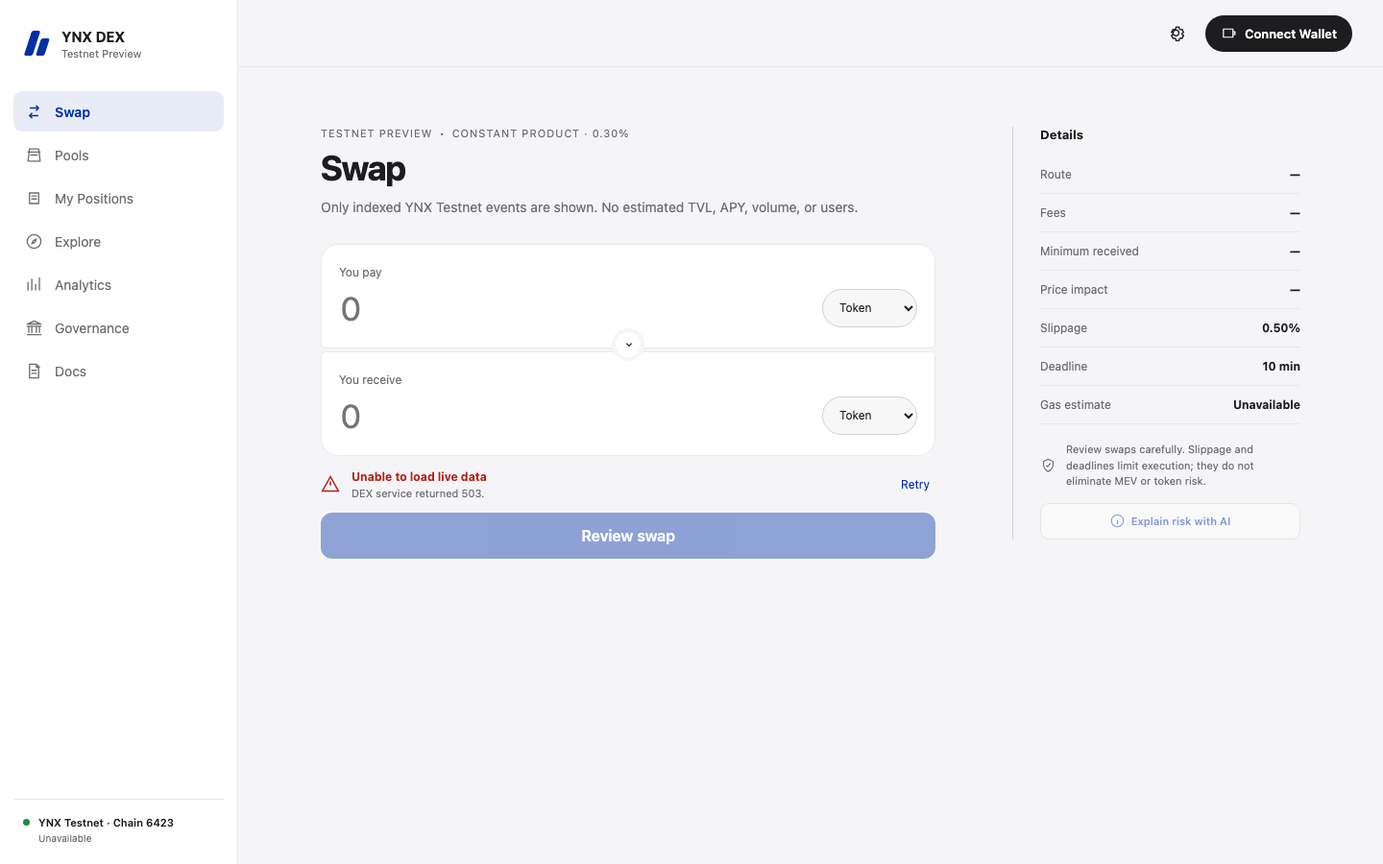
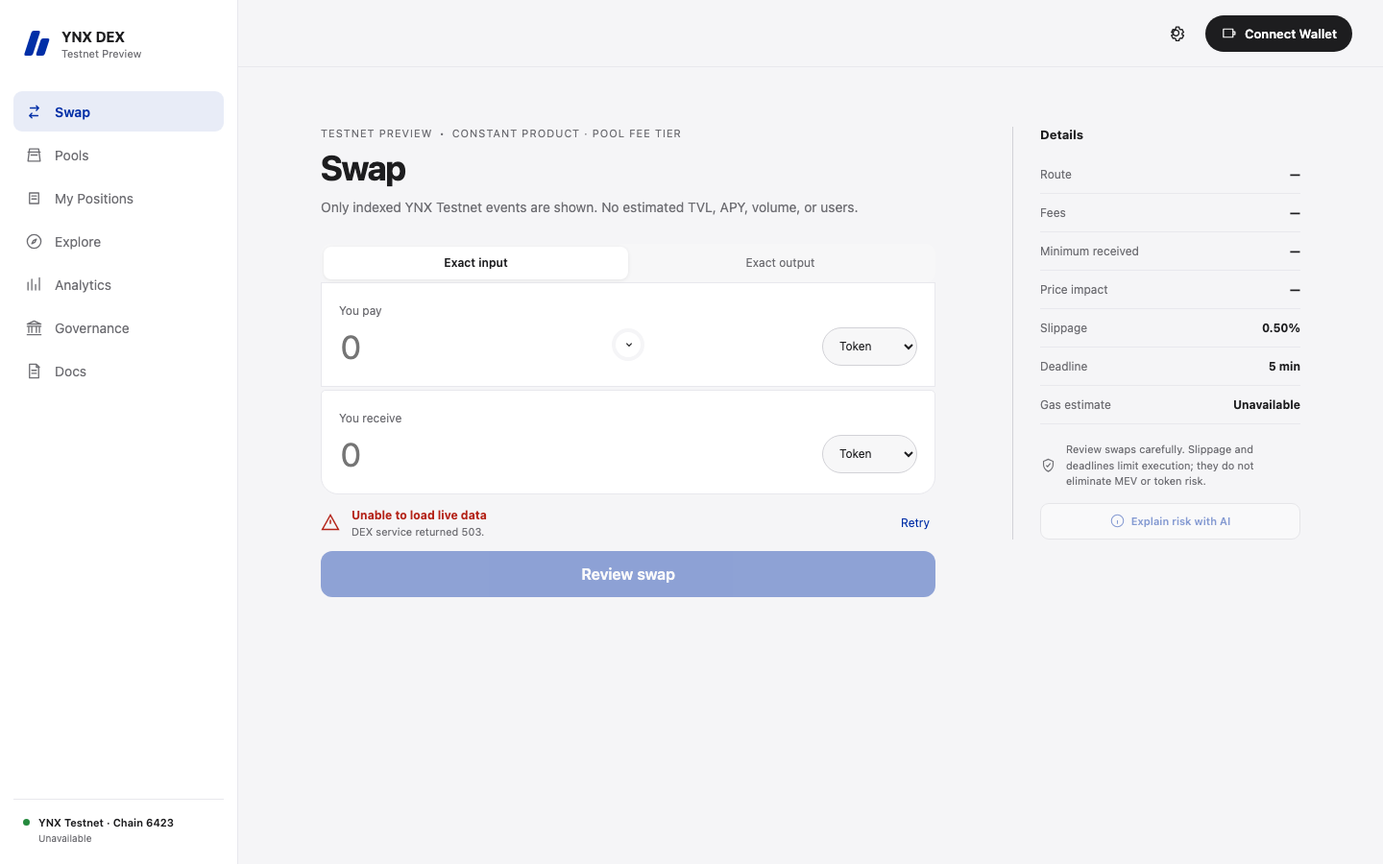
Add exact-output DEX execution flow

diff --git a/apps/dex/src/App.tsx b/apps/dex/src/App.tsx
@@ -1,13 +1,13 @@
 import { useEffect, useMemo, useRef, useState } from "react";
 import type { ReactNode } from "react";
-import { minimumOutput, priceImpactBps, quoteExactInput } from "@ynx-chain/dex-sdk";
+import { maximumInput, minimumOutput, priceImpactBps, quoteExactInput, quoteExactOutput } from "@ynx-chain/dex-sdk";
 import type { Pool as SdkPool, Quote } from "@ynx-chain/dex-sdk";
 import { catalogs, locales } from "./i18n";
 import { dexApi } from "./api";
 import { appendRiskAudit, buildRiskRequest, requestDigest, streamRiskExplanation, verifyRiskAudit } from "./riskAssistant";
 import type { AuditAction, RiskContext } from "./riskAssistant";
 import { useDexData } from "./useDexData";
-import { beginExactInputSwap, beginLiquidityAdd, beginLiquidityRemove, beginWalletAuthorization, callbackPending, completeDexAction, completeWalletAuthorization, dexActionCallbackPending, positionsProof, restoreWalletSession, shortAccount, WALLET_INSTALL_URL } from "./wallet";
+import { beginExactInputSwap, beginExactOutputSwap, beginLiquidityAdd, beginLiquidityRemove, beginWalletAuthorization, callbackPending, completeDexAction, completeWalletAuthorization, dexActionCallbackPending, positionsProof, restoreWalletSession, shortAccount, WALLET_INSTALL_URL } from "./wallet";
 import type { CentralWalletSession } from "@ynx-chain/wallet-auth";
 import type { Candle, ChainEvent, Locale, Pool, Position, Token } from "./types";
 
@@ -65,6 +65,7 @@ export default function App(){
 function SwapPage({pools,tokens,walletSession,openWallet,loading,error,retry,t}:{pools:Pool[];tokens:Token[];walletSession:CentralWalletSession|null;openWallet:()=>void;loading:boolean;error:string;retry:()=>void;t:typeof catalogs.en}){
  const [review,setReview]=useState(false);
  const [assistant,setAssistant]=useState(false);
+	const [tradeMode,setTradeMode]=useState<"exact-input"|"exact-output">("exact-input");
 	const [actionBusy,setActionBusy]=useState(false);const [actionError,setActionError]=useState("");
  const [clock,setClock]=useState(()=>Date.now());
  const tokenMap=useMemo(()=>new Map(tokens.map(token=>[token.address.toLowerCase(),token])),[tokens]);
@@ -72,22 +73,22 @@ function SwapPage({pools,tokens,walletSession,openWallet,loading,error,retry,t}:
  const [from,setFrom]=useState("");const [to,setTo]=useState("");const [amount,setAmount]=useState("");
  useEffect(()=>{if(choices.length>1){setFrom(value=>value||choices[0]);setTo(value=>value||choices[1])}},[choices]);
  const sdkPools=useMemo(()=>pools.flatMap(pool=>{const token0=tokenMap.get(pool.token0.toLowerCase());const token1=tokenMap.get(pool.token1.toLowerCase());if(!token0||!token1)return [];return [{address:pool.address,feeBps:pool.feeBps,reserve0:pool.reserve0,reserve1:pool.reserve1,token0:{address:token0.address,chainId:6423,decimals:token0.decimals,name:token0.name,symbol:token0.symbol,verified:true},token1:{address:token1.address,chainId:6423,decimals:token1.decimals,name:token1.name,symbol:token1.symbol,verified:true},updatedAt:pool.updatedAt} as SdkPool]}),[pools,tokenMap]);
- const quoteState=useMemo(()=>{if(!from||!to||!amount)return {quote:null as Quote|null,error:""};const source=tokenMap.get(from);try{if(!source)throw new Error("Token metadata is unavailable.");const raw=parseUnits(amount,source.decimals);return {quote:quoteExactInput({amountIn:raw,tokenIn:from,tokenOut:to,pools:sdkPools}),error:""}}catch(reason){return {quote:null,error:reason instanceof Error?reason.message:"Quote unavailable."}}},[amount,from,to,sdkPools,tokenMap]);
- const outputToken=tokenMap.get(to);const output=quoteState.quote&&outputToken?formatUnits(quoteState.quote.amountOut,outputToken.decimals):"";
- const minOut=quoteState.quote&&outputToken?formatUnits(minimumOutput(quoteState.quote.amountOut,50),outputToken.decimals):"—";
+ const quoteState=useMemo(()=>{if(!from||!to||!amount)return {quote:null as Quote|null,error:""};const source=tokenMap.get(from),target=tokenMap.get(to);try{if(!source||!target)throw new Error("Token metadata is unavailable.");const raw=parseUnits(amount,tradeMode==="exact-input"?source.decimals:target.decimals);return {quote:tradeMode==="exact-input"?quoteExactInput({amountIn:raw,tokenIn:from,tokenOut:to,pools:sdkPools}):quoteExactOutput({amountOut:raw,tokenIn:from,tokenOut:to,pools:sdkPools}),error:""}}catch(reason){return {quote:null,error:reason instanceof Error?reason.message:"Quote unavailable."}}},[amount,from,to,sdkPools,tokenMap,tradeMode]);
+ const inputToken=tokenMap.get(from),outputToken=tokenMap.get(to);const inputDisplay=tradeMode==="exact-input"?amount:quoteState.quote&&inputToken?formatUnits(quoteState.quote.amountIn,inputToken.decimals):"";const outputDisplay=tradeMode==="exact-output"?amount:quoteState.quote&&outputToken?formatUnits(quoteState.quote.amountOut,outputToken.decimals):"";
+ const limitAmount=quoteState.quote?(tradeMode==="exact-input"&&outputToken?formatUnits(minimumOutput(quoteState.quote.amountOut,50),outputToken.decimals):tradeMode==="exact-output"&&inputToken?formatUnits(maximumInput(quoteState.quote.amountIn,50),inputToken.decimals):"—"):"—";const limitLabel=tradeMode==="exact-input"?t.minimum:"Maximum paid";const limitSymbol=tradeMode==="exact-input"?outputToken?.symbol:inputToken?.symbol;
  const impact=quoteState.quote?priceImpactBps(quoteState.quote):null;
  const routeFees=quoteState.quote?quoteState.quote.steps.map(step=>{const pool=pools.find(item=>item.address.toLowerCase()===step.pool.toLowerCase());return pool?feePercent(pool.feeBps):"unknown"}).join(" + "):"—";
  const stale=Boolean(quoteState.quote&&clock-Date.parse(quoteState.quote.quotedAt)>15_000);const highImpact=impact!==null&&impact>=500;
  useEffect(()=>{if(!quoteState.quote)return;const timer=setInterval(()=>setClock(Date.now()),1_000);return()=>clearInterval(timer)},[quoteState.quote]);
  useEffect(()=>{if(stale){setReview(false);setAssistant(false)}},[stale]);
-	const requestWalletSwap=async()=>{try{setActionBusy(true);setActionError("");if(!walletSession)throw new Error("Connect YNX Wallet before requesting a swap.");if(!quoteState.quote||quoteState.quote.steps.length!==1)throw new Error("Wallet execution currently requires one authoritative pool route.");const step=quoteState.quote.steps[0],pool=pools.find(item=>item.address.toLowerCase()===step.pool.toLowerCase()),source=tokenMap.get(from);if(!pool||!source)throw new Error("Authoritative pool or asset metadata is unavailable.");const values=[quoteState.quote.amountIn,quoteState.quote.amountOut,minimumOutput(quoteState.quote.amountOut,50),BigInt(pool.reserve0),BigInt(pool.reserve1)];if(values.some(value=>value>BigInt(Number.MAX_SAFE_INTEGER)))throw new Error("This amount exceeds the current Wallet integer safety bound.");const assetIn=source.address.toLowerCase()==="ynxt"?"YNXT":source.address;location.href=await beginExactInputSwap({poolId:pool.address,assetIn,amountIn:Number(values[0]),minAmountOut:Number(values[2]),expectedAmount:Number(values[1]),reserve0:Number(values[3]),reserve1:Number(values[4]),poolBlockHeight:pool.updatedBlock,poolUpdatedAt:pool.updatedAt,asset0:pool.token0.toLowerCase()==="ynxt"?"YNXT":pool.token0,asset1:pool.token1.toLowerCase()==="ynxt"?"YNXT":pool.token1,feeBps:pool.feeBps})}catch(reason){setActionError(reason instanceof Error?reason.message:"Unable to open Wallet review.");setActionBusy(false)}};
+	const requestWalletSwap=async()=>{try{setActionBusy(true);setActionError("");if(!walletSession)throw new Error("Connect YNX Wallet before requesting a swap.");if(!quoteState.quote||quoteState.quote.steps.length!==1)throw new Error("Wallet execution currently requires one authoritative pool route.");const step=quoteState.quote.steps[0],pool=pools.find(item=>item.address.toLowerCase()===step.pool.toLowerCase()),source=tokenMap.get(from),target=tokenMap.get(to);if(!pool||!source||!target)throw new Error("Authoritative pool or asset metadata is unavailable.");const minAmountOut=minimumOutput(quoteState.quote.amountOut,50),maxAmountIn=maximumInput(quoteState.quote.amountIn,50),values=[quoteState.quote.amountIn,quoteState.quote.amountOut,minAmountOut,maxAmountIn,BigInt(pool.reserve0),BigInt(pool.reserve1)];if(values.some(value=>value>BigInt(Number.MAX_SAFE_INTEGER)))throw new Error("This amount exceeds the current Wallet integer safety bound.");const common={poolId:pool.address,reserve0:Number(values[4]),reserve1:Number(values[5]),poolBlockHeight:pool.updatedBlock,poolUpdatedAt:pool.updatedAt,asset0:pool.token0.toLowerCase()==="ynxt"?"YNXT":pool.token0,asset1:pool.token1.toLowerCase()==="ynxt"?"YNXT":pool.token1,feeBps:pool.feeBps};if(tradeMode==="exact-input"){const assetIn=source.address.toLowerCase()==="ynxt"?"YNXT":source.address;location.href=await beginExactInputSwap({...common,assetIn,amountIn:Number(values[0]),minAmountOut:Number(values[2]),expectedAmount:Number(values[1])})}else{const assetOut=target.address.toLowerCase()==="ynxt"?"YNXT":target.address;location.href=await beginExactOutputSwap({...common,assetOut,amountOut:Number(values[1]),maxAmountIn:Number(values[3]),expectedAmount:Number(values[0])})}}catch(reason){setActionError(reason instanceof Error?reason.message:"Unable to open Wallet review.");setActionBusy(false)}};
  return <div className="swap-layout"><section className="composer-column"><div className="page-kicker"><span>{t.testnet}</span><span>•</span><span>{t.protocol}</span></div><h1>{t.swap}</h1><p className="lede">{t.liveOnly}</p>
-   <div className="swap-composer"><TokenAmount label={t.from} value={amount} onChange={setAmount} token={from} onToken={setFrom} tokens={tokens}/><button className="swap-direction" aria-label="Reverse tokens" onClick={()=>{setFrom(to);setTo(from)}}><Icon name="down"/></button><TokenAmount label={t.to} value={output} onChange={()=>undefined} token={to} onToken={setTo} tokens={tokens} readonly/>
+	   <div className="swap-composer"><div className="segmented" role="tablist" aria-label="Swap amount mode"><button role="tab" aria-selected={tradeMode==="exact-input"} onClick={()=>{setTradeMode("exact-input");setAmount("");setActionError("")}}>Exact input</button><button role="tab" aria-selected={tradeMode==="exact-output"} onClick={()=>{setTradeMode("exact-output");setAmount("");setActionError("")}}>Exact output</button></div><TokenAmount label={t.from} value={inputDisplay} onChange={setAmount} token={from} onToken={value=>{setFrom(value);setAmount("")}} tokens={tokens} readonly={tradeMode==="exact-output"}/><button className="swap-direction" aria-label="Reverse tokens" onClick={()=>{setFrom(to);setTo(from);setAmount("")}}><Icon name="down"/></button><TokenAmount label={t.to} value={outputDisplay} onChange={setAmount} token={to} onToken={value=>{setTo(value);setAmount("")}} tokens={tokens} readonly={tradeMode==="exact-input"}/>
    {loading?<Skeleton rows={2}/>:error?<InlineError message={error} retry={retry} label={t.retry}/>:<div className={`quote-empty ${stale||highImpact?"quote-warning":""}`}><Icon name={stale||highImpact?"warning":"route"}/><div><strong>{stale?"Quote expired":highImpact?t.highImpact:quoteState.quote?`${quoteState.quote.steps.length} pool route`:t.noRoute}</strong><span>{stale?"Refresh the amount or token selection before review.":highImpact?"Price impact is 5% or higher. Review size and route.":quoteState.quote?"Deterministic quote from current indexed reserves.":quoteState.error||t.routeHint}</span></div></div>}
    <button className="primary review-button" disabled={!quoteState.quote} onClick={()=>stale?retry():setReview(true)}>{stale?"Refresh quote":t.review}</button></div></section>
-	   <aside className="inspector" aria-label={t.details}><h2>{t.details}</h2><InspectorRow label="Route" value={quoteState.quote?`${tokenMap.get(from)?.symbol||short(from)} → ${tokenMap.get(to)?.symbol||short(to)}`:"—"}/><InspectorRow label={t.fees} value={routeFees}/><InspectorRow label={t.minimum} value={minOut}/><InspectorRow label="Price impact" value={impact===null?"—":`${(impact/100).toFixed(2)}%${highImpact?" · high":""}`}/><InspectorRow label={t.slippage} value="0.50%"/><InspectorRow label={t.deadline} value="10 min"/><InspectorRow label={t.gas} value="Unavailable"/><div className="risk-note"><Icon name="security"/><p>{t.docsText}</p></div><button className="assistant-button" disabled={!quoteState.quote||stale} onClick={()=>setAssistant(true)}><Icon name="info"/>Explain risk with AI</button></aside>
-	   {review&&quoteState.quote&&<Modal title={t.review} close={()=>setReview(false)}><div className="review-sheet"><div className="review-amount"><span>{t.from}</span><strong>{amount} {tokenMap.get(from)?.symbol}</strong></div><div className="review-amount"><span>{t.to}</span><strong>{output} {tokenMap.get(to)?.symbol}</strong></div><dl><div><dt>Input asset</dt><dd>{from}</dd></div><div><dt>Output asset</dt><dd>{to}</dd></div><div><dt>Authoritative pool route</dt><dd>{quoteState.quote.steps.map(step=>step.pool).join(" → ")}</dd></div><div><dt>{t.fees}</dt><dd>{routeFees}</dd></div><div><dt>{t.minimum}</dt><dd>{minOut} {tokenMap.get(to)?.symbol}</dd></div><div><dt>Price impact</dt><dd>{(priceImpactBps(quoteState.quote)/100).toFixed(2)}%</dd></div><div><dt>{t.slippage}</dt><dd>0.50%</dd></div><div><dt>{t.deadline}</dt><dd>5 min</dd></div><div><dt>Current chain-native action fee</dt><dd>1 YNXT</dd></div><div><dt>{t.network}</dt><dd>Chain 6423</dd></div></dl><div className="review-warning"><Icon name="warning"/><p>YNX Wallet independently rechecks the current authoritative pool, account nonce, exact amounts, minimum output and deadline before signing.</p></div>{actionError&&<p className="review-blocker">{actionError}</p>}<button className="primary" disabled={actionBusy||quoteState.quote.steps.length!==1} onClick={()=>walletSession?void requestWalletSwap():openWallet()}>{actionBusy?"Opening YNX Wallet…":walletSession?t.confirmWallet:t.connect}</button></div></Modal>}
-   {assistant&&quoteState.quote&&<RiskAssistantModal close={()=>setAssistant(false)} context={{pair:`${tokenMap.get(from)?.symbol||short(from)} / ${tokenMap.get(to)?.symbol||short(to)}`,amount:`${amount} ${tokenMap.get(from)?.symbol||"token"}`,routePools:quoteState.quote.steps.map(step=>step.pool),minimumReceived:`${minOut} ${tokenMap.get(to)?.symbol||"token"}`,priceImpactBps:priceImpactBps(quoteState.quote),slippageBps:50,deadlineSeconds:600}}/>}
+	   <aside className="inspector" aria-label={t.details}><h2>{t.details}</h2><InspectorRow label="Route" value={quoteState.quote?`${tokenMap.get(from)?.symbol||short(from)} → ${tokenMap.get(to)?.symbol||short(to)}`:"—"}/><InspectorRow label={t.fees} value={routeFees}/><InspectorRow label={limitLabel} value={limitAmount}/><InspectorRow label="Price impact" value={impact===null?"—":`${(impact/100).toFixed(2)}%${highImpact?" · high":""}`}/><InspectorRow label={t.slippage} value="0.50%"/><InspectorRow label={t.deadline} value="5 min"/><InspectorRow label={t.gas} value="Unavailable"/><div className="risk-note"><Icon name="security"/><p>{t.docsText}</p></div><button className="assistant-button" disabled={!quoteState.quote||stale} onClick={()=>setAssistant(true)}><Icon name="info"/>Explain risk with AI</button></aside>
+	   {review&&quoteState.quote&&<Modal title={t.review} close={()=>setReview(false)}><div className="review-sheet"><div className="review-amount"><span>{t.from}</span><strong>{inputDisplay} {tokenMap.get(from)?.symbol}</strong></div><div className="review-amount"><span>{t.to}</span><strong>{outputDisplay} {tokenMap.get(to)?.symbol}</strong></div><dl><div><dt>Execution mode</dt><dd>{tradeMode}</dd></div><div><dt>Input asset</dt><dd>{from}</dd></div><div><dt>Output asset</dt><dd>{to}</dd></div><div><dt>Authoritative pool route</dt><dd>{quoteState.quote.steps.map(step=>step.pool).join(" → ")}</dd></div><div><dt>{t.fees}</dt><dd>{routeFees}</dd></div><div><dt>{limitLabel}</dt><dd>{limitAmount} {limitSymbol}</dd></div><div><dt>Price impact</dt><dd>{(priceImpactBps(quoteState.quote)/100).toFixed(2)}%</dd></div><div><dt>{t.slippage}</dt><dd>0.50%</dd></div><div><dt>{t.deadline}</dt><dd>5 min</dd></div><div><dt>Current chain-native action fee</dt><dd>1 YNXT</dd></div><div><dt>{t.network}</dt><dd>Chain 6423</dd></div></dl><div className="review-warning"><Icon name="warning"/><p>YNX Wallet independently rechecks the current authoritative pool, account nonce, exact amounts, slippage limit and deadline before signing.</p></div>{actionError&&<p className="review-blocker">{actionError}</p>}<button className="primary" disabled={actionBusy||quoteState.quote.steps.length!==1} onClick={()=>walletSession?void requestWalletSwap():openWallet()}>{actionBusy?"Opening YNX Wallet…":walletSession?t.confirmWallet:t.connect}</button></div></Modal>}
+	   {assistant&&quoteState.quote&&<RiskAssistantModal close={()=>setAssistant(false)} context={{pair:`${tokenMap.get(from)?.symbol||short(from)} / ${tokenMap.get(to)?.symbol||short(to)}`,amount:`${tradeMode==="exact-input"?inputDisplay:outputDisplay} ${tradeMode==="exact-input"?tokenMap.get(from)?.symbol||"token":tokenMap.get(to)?.symbol||"token"}`,routePools:quoteState.quote.steps.map(step=>step.pool),minimumReceived:`${limitLabel}: ${limitAmount} ${limitSymbol||"token"}`,priceImpactBps:priceImpactBps(quoteState.quote),slippageBps:50,deadlineSeconds:300}}/>}
  </div>
 }
 

diff --git a/apps/dex/src/App.test.tsx b/apps/dex/src/App.test.tsx
@@ -9,6 +9,6 @@ describe("YNX DEX product shell",()=>{
  it("renders truthful empty swap and pool states without fabricated metrics",async()=>{render(<App/>);expect(screen.getByRole("heading",{name:"Swap"})).toBeInTheDocument();await waitFor(()=>expect(screen.getByText("No executable route")).toBeInTheDocument());expect(screen.queryByText(/APY [1-9]/)).not.toBeInTheDocument();const primary=screen.getByRole("complementary",{name:"Primary navigation"});fireEvent.click(within(primary).getByRole("button",{name:"Pools"}));await waitFor(()=>expect(screen.getByText("No verified pools indexed yet")).toBeInTheDocument())});
  it("offers the canonical Wallet action and a real installation route while public use remains available",async()=>{render(<App/>);fireEvent.click(screen.getByRole("button",{name:"Connect Wallet"}));expect(await screen.findByRole("dialog",{name:"Connect Wallet"})).toBeInTheDocument();expect(screen.getByText(/DEX never receives a private key/)).toBeInTheDocument();expect(screen.getByRole("button",{name:"Continue in YNX Wallet"})).toBeEnabled();expect(screen.getByRole("link",{name:"Install YNX Wallet"})).toHaveAttribute("href","https://ynxweb4.com/ecosystem?product=wallet")});
  it("persists Arabic RTL and dark appearance",async()=>{render(<App/>);fireEvent.click(screen.getByRole("button",{name:"Settings"}));fireEvent.change(screen.getByLabelText("Language"),{target:{value:"ar"}});expect(document.documentElement.dir).toBe("rtl");fireEvent.click(screen.getByLabelText("داكن"));expect(document.documentElement.dataset.theme).toBe("dark")});
- it("quotes reviewed Testnet tokens and routes execution through canonical Wallet",async()=>{const token0="0x0000000000000000000000000000000000000001";const token1="0x0000000000000000000000000000000000000002";vi.stubGlobal("fetch",vi.fn((input:RequestInfo|URL)=>{const path=String(input);if(path.includes("/v1/tokens"))return json({items:[{chainId:6423,address:token0,symbol:"T0",name:"Test Zero",decimals:18,standard:"ERC-20",reviewStatus:"owner-reviewed-testnet"},{chainId:6423,address:token1,symbol:"T1",name:"Test One",decimals:18,standard:"ERC-20",reviewStatus:"owner-reviewed-testnet"}],source:"owner-reviewed Testnet token list",chainId:6423,mainnet:false});if(path.includes("/v1/pools"))return json({items:[{address:"0x0000000000000000000000000000000000000011",token0,token1,reserve0:"1000000000000000000000",reserve1:"2000000000000000000000",feeBps:30,contractVersion:"ynx-dex-cpmm-v1",updatedBlock:12,updatedAt:"2026-07-18T00:00:00Z"}],source:"indexed YNX Testnet EVM events"});if(path.includes("/v1/transactions"))return json({items:[],source:"indexed YNX Testnet EVM events"});if(path.includes("/v1/prices")||path.includes("/v1/twap")||path.includes("/v1/fees")||path.includes("/v1/candles"))return json({items:[],source:"indexed raw amounts"});return json({source:"YNX Testnet EVM events",indexedEvents:1,pools:1,swaps:0,liquidityEvents:1,latestBlock:12})}));render(<App/>);await waitFor(()=>expect(screen.getByLabelText("You pay token")).toHaveValue(token0));fireEvent.change(screen.getByLabelText("You pay amount"),{target:{value:"1"}});await waitFor(()=>expect(screen.getByText("Deterministic quote from current indexed reserves.")).toBeInTheDocument());fireEvent.click(screen.getByRole("button",{name:"Review swap"}));const dialog=screen.getByRole("dialog",{name:"Review swap"});expect(within(dialog).getByText(/1\.99/)).toBeInTheDocument();expect(within(dialog).getByText("0.30%")).toBeInTheDocument();const connect=within(dialog).getByRole("button",{name:"Connect Wallet"});expect(connect).toBeEnabled();fireEvent.click(connect);expect(screen.getByRole("dialog",{name:"Connect Wallet"})).toBeInTheDocument()});
+ it("quotes exact input and exact output from reviewed pools before canonical Wallet execution",async()=>{const token0="0x0000000000000000000000000000000000000001";const token1="0x0000000000000000000000000000000000000002";vi.stubGlobal("fetch",vi.fn((input:RequestInfo|URL)=>{const path=String(input);if(path.includes("/v1/tokens"))return json({items:[{chainId:6423,address:token0,symbol:"T0",name:"Test Zero",decimals:18,standard:"ERC-20",reviewStatus:"owner-reviewed-testnet"},{chainId:6423,address:token1,symbol:"T1",name:"Test One",decimals:18,standard:"ERC-20",reviewStatus:"owner-reviewed-testnet"}],source:"owner-reviewed Testnet token list",chainId:6423,mainnet:false});if(path.includes("/v1/pools"))return json({items:[{address:"0x0000000000000000000000000000000000000011",token0,token1,reserve0:"1000000000000000000000",reserve1:"2000000000000000000000",feeBps:30,contractVersion:"ynx-dex-cpmm-v1",updatedBlock:12,updatedAt:"2026-07-18T00:00:00Z"}],source:"indexed YNX Testnet EVM events"});if(path.includes("/v1/transactions"))return json({items:[],source:"indexed YNX Testnet EVM events"});if(path.includes("/v1/prices")||path.includes("/v1/twap")||path.includes("/v1/fees")||path.includes("/v1/candles"))return json({items:[],source:"indexed raw amounts"});return json({source:"YNX Testnet EVM events",indexedEvents:1,pools:1,swaps:0,liquidityEvents:1,latestBlock:12})}));render(<App/>);await waitFor(()=>expect(screen.getByLabelText("You pay token")).toHaveValue(token0));fireEvent.change(screen.getByLabelText("You pay amount"),{target:{value:"1"}});await waitFor(()=>expect(screen.getByText("Deterministic quote from current indexed reserves.")).toBeInTheDocument());fireEvent.click(screen.getByRole("button",{name:"Review swap"}));let dialog=screen.getByRole("dialog",{name:"Review swap"});expect(within(dialog).getByText(/1\.99/)).toBeInTheDocument();expect(within(dialog).getByText("0.30%")).toBeInTheDocument();fireEvent.click(within(dialog).getByRole("button",{name:"Close"}));fireEvent.click(screen.getByRole("tab",{name:"Exact output"}));fireEvent.change(screen.getByLabelText("You receive amount"),{target:{value:"2"}});await waitFor(()=>expect((screen.getByLabelText("You pay amount") as HTMLInputElement).value).toMatch(/^1\.004/));fireEvent.click(screen.getByRole("button",{name:"Review swap"}));dialog=screen.getByRole("dialog",{name:"Review swap"});expect(within(dialog).getByText("exact-output")).toBeInTheDocument();expect(within(dialog).getByText("Maximum paid")).toBeInTheDocument();const connect=within(dialog).getByRole("button",{name:"Connect Wallet"});expect(connect).toBeEnabled();fireEvent.click(connect);expect(screen.getByRole("dialog",{name:"Connect Wallet"})).toBeInTheDocument()});
  it("exposes real chain-native add and remove liquidity reviews instead of permanently disabled controls",async()=>{vi.stubGlobal("fetch",vi.fn((input:RequestInfo|URL)=>{const path=String(input);if(path.includes("/v1/tokens"))return json({items:[{chainId:6423,address:"YNXT",symbol:"YNXT",name:"YNX Testnet",decimals:0,standard:"YNX-NATIVE",reviewStatus:"authoritative-chain-native-testnet"},{chainId:6423,address:"ynx-usd-test",symbol:"YUSD",name:"YNX USD Test",decimals:2,standard:"YNX-NATIVE",reviewStatus:"authoritative-chain-native-testnet"}],source:"authoritative chain-native Testnet assets",chainId:6423,mainnet:false});if(path.includes("/v1/pools"))return json({items:[{address:"dex_ynxt_yusd",token0:"YNXT",token1:"ynx-usd-test",reserve0:"1000",reserve1:"200000",feeBps:25,contractVersion:"ynx-native-dex-cpmm-v1",updatedBlock:42,updatedAt:"2026-08-11T08:00:00Z"}],source:"authoritative chain-native Testnet events"});if(path.includes("/v1/transactions"))return json({items:[],source:"authoritative chain-native Testnet events"});if(path.includes("/v1/prices")||path.includes("/v1/twap")||path.includes("/v1/fees")||path.includes("/v1/candles"))return json({items:[],source:"indexed raw amounts"});return json({source:"authoritative chain-native Testnet events",indexedEvents:2,pools:1,swaps:0,liquidityEvents:1,latestBlock:42})}));render(<App/>);const primary=screen.getByRole("complementary",{name:"Primary navigation"});fireEvent.click(within(primary).getByRole("button",{name:"Pools"}));expect(await screen.findByText("0.25%")).toBeInTheDocument();fireEvent.click(screen.getByRole("button",{name:/YNXT \/ YUSD/}));const dialog=screen.getByRole("dialog",{name:"YNXT / YUSD"});fireEvent.change(within(dialog).getByLabelText("YNXT liquidity amount"),{target:{value:"10"}});fireEvent.change(within(dialog).getByLabelText("YUSD liquidity amount"),{target:{value:"2000"}});const add=within(dialog).getByRole("button",{name:"Connect Wallet"});expect(add).toBeEnabled();fireEvent.click(within(dialog).getByRole("tab",{name:"Remove liquidity"}));fireEvent.change(within(dialog).getByLabelText("Raw LP shares"),{target:{value:"5"}});expect(within(dialog).getByRole("button",{name:"Connect Wallet"})).toBeEnabled()});
 });

diff --git a/apps/dex/src/wallet.ts b/apps/dex/src/wallet.ts
@@ -134,6 +134,10 @@ export async function beginExactInputSwap(input:PoolSnapshotInput&{assetIn:strin
   return beginPoolAction(input,"dex_swap_exact_input",{assetIn:input.assetIn,amountIn:input.amountIn,minAmountOut:input.minAmountOut},input.expectedAmount,now);
 }
 
+export async function beginExactOutputSwap(input:PoolSnapshotInput&{assetOut:string;amountOut:number;maxAmountIn:number;expectedAmount:number},now=new Date()):Promise<string>{
+  return beginPoolAction(input,"dex_swap_exact_output",{assetOut:input.assetOut,amountOut:input.amountOut,maxAmountIn:input.maxAmountIn},input.expectedAmount,now);
+}
+
 export async function beginLiquidityAdd(input:PoolSnapshotInput&{amount0:number;amount1:number},now=new Date()):Promise<string>{
   const context=await authoritativeActionContext(input,now),{pool}=context;
   const expected=liquidityShares(BigInt(input.amount0),BigInt(input.amount1),pool);
